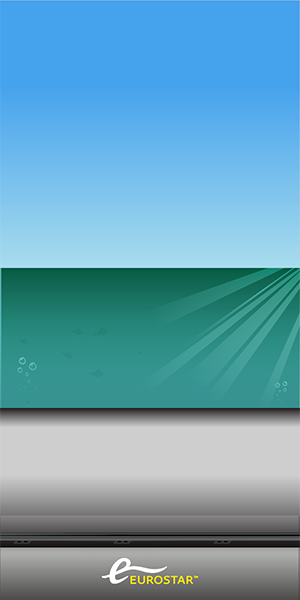
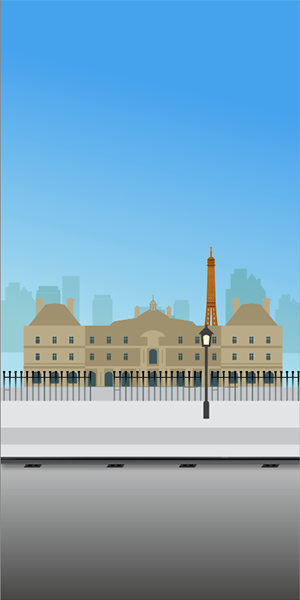
Eurostar guard added

diff --git a/Eurostar/public/Guard/300x600/js/banner.animation.js b/Eurostar/public/Guard/300x600/js/banner.animation.js
@@ -11,7 +11,7 @@ Banner.prototype.start = function () {
   this.bannerHeight = this.banner.offsetHeight;
 
   // Image array for preloading
-  this.images = ['images/logo.png', 'images/blue_bkg.png', 'images/train.png', 'images/scene1_bkg.png', 'images/scene1_clouds.png', 'images/scene1_hut.png', 'images/scene1_man.png', 'images/scene1_wheel.png', 'images/copy1.png', 'images/scene2_clouds.png', 'images/scene2_bkg.png', 'images/scene2_plane.png', 'images/scene2_boat.png', 'images/scene2_fish.png', 'images/copy2.png', 'images/scene4_bkg.png', 'images/scene4_line1.png', 'images/scene4_line2.png', 'images/copy4.png', 'images/scene5_price.png', 'images/cta.png', 'images/copy5.png'];
+  this.images = ['images/logo.png', 'images/blue_bkg.png', 'images/train.png', 'images/eurostar.png', 'images/scene1_bkg.png', 'images/scene1_clouds.png', 'images/scene1_hut.png', 'images/scene1_man.png', 'images/copy1.png', 'images/scene2_man.png', 'images/scene2_bkg.png', 'images/scene2_clothes.png', 'images/copy2.png', 'images/copy3.png', 'images/scene4_bkg.png', 'images/scene4_line1.png', 'images/scene4_line2.png', 'images/copy4.png', 'images/scene5_price.png', 'images/cta.png', 'images/copy5.png'];
 
   var _this = this;
   this.preloadImages(this.images, function () {
@@ -39,12 +39,20 @@ Banner.prototype.createElements = function () {
     backgroundImage: 'images/train.png',
     parent: this.banner
   });
+  this.eurostar = this.smartObject({
+    backgroundImage: 'images/eurostar.png',
+    parent: this.banner
+  });
   this.scene1_bkg = this.smartObject({
     backgroundImage: 'images/scene1_bkg.png',
     parent: this.banner
   });
   this.copy1 = this.smartObject({
     backgroundImage: 'images/copy1.png',
+    parent: this.banner
+  });
+  this.copy3 = this.smartObject({
+    backgroundImage: 'images/copy3.png',
     parent: this.banner
   });
   this.scene1_clouds = this.smartObject({
@@ -59,20 +67,16 @@ Banner.prototype.createElements = function () {
     backgroundImage: 'images/scene1_man.png',
     parent: this.banner
   });
-  this.scene1_wheel = this.smartObject({
-    backgroundImage: 'images/scene1_wheel.png',
-    parent: this.banner
-  });
   this.scene2_bkg = this.smartObject({
     backgroundImage: 'images/scene2_bkg.png',
     parent: this.banner
   });
-  this.scene2_clouds = this.smartObject({
-    backgroundImage: 'images/scene2_clouds.png',
+  this.scene2_man = this.smartObject({
+    backgroundImage: 'images/scene2_man.png',
     parent: this.banner
   });
-  this.scene2_plane = this.smartObject({
-    backgroundImage: 'images/scene2_plane.png',
+  this.scene2_clothes = this.smartObject({
+    backgroundImage: 'images/scene2_clothes.png',
     parent: this.banner
   });
   this.scene2_boat = this.smartObject({
@@ -124,23 +128,22 @@ Banner.prototype.setup = function () {
   this.logo.center();
   this.logo.set({ zIndex: 15 });
   this.blue_bkg.set({ left: -298, top: 0, zIndex: 14 });
-  this.train.set({ top: 400, left: -14000, zIndex: 14 });
+  this.train.set({ top: 335, left: -14000, zIndex: 14 });
+  this.eurostar.set({ top: 550, left: 95, zIndex: 13 });
 
   //SCENE 1 ZOOMED IN LONDON 
-  this.scene1_bkg.set({ scale: 1.4, zIndex: 12 });
-  this.scene1_clouds.set({ scale: 1.4, top: 200, left: 10, zIndex: 13 });
-  this.scene1_hut.set({ scale: 1.4, top: 320, left: 100, zIndex: 13 });
-  this.scene1_man.set({ scale: 1.4, top: 370, left: 120, zIndex: 13 });
-  this.scene1_wheel.set({ scale: 1.4, top: 150, left: 150, zIndex: 13 });
-  this.copy1.set({ autoAlpha: 0, top: 15, left: 70, zIndex: 13 });
+  this.scene1_bkg.set({ scale: 1.4, top: -50, left: 40, zIndex: 12 });
+  this.scene1_clouds.set({ scale: 1.4, top: 20, left: 30, zIndex: 13 });
+  this.scene1_hut.set({ scale: 1.4, top: 255, left: 110, zIndex: 12 });
+  this.scene1_man.set({ scale: 1.4, top: 305, left: 130, zIndex: 13 });
+  this.copy1.set({ autoAlpha: 0, top: 25, left: 60, zIndex: 13 });
+  this.copy2.set({ autoAlpha: 0, top: 60, left: 115, zIndex: 13 });
+  this.copy3.set({ autoAlpha: 0, top: 95, left: 35, zIndex: 13 });
 
-  //SCENE 2 OCEAN
-  this.scene2_clouds.set({ left: 0, zIndex: 11 });
+  //SCENE 2 PARIS
   this.scene2_bkg.set({ zIndex: 10 });
-  this.scene2_plane.set({ left: -200, zIndex: 11 });
-  this.scene2_boat.set({ left: 120, top: 245, zIndex: 11 });
-  this.scene2_fish.set({ left: 10, top: 300, zIndex: 11 });
-  this.copy2.set({ autoAlpha: 0, top: 300, left: 70, zIndex: 11 });
+  this.scene2_man.set({ top: 310, left: 90, zIndex: 11 });
+  this.scene2_clothes.set({ autoAlpha: 0, top: 355, left: 90, zIndex: 12 });
 
   //SCENE 4 LONDON TO PARIS
 
@@ -172,18 +175,21 @@ Banner.prototype.animate = function () {
     _this.timeline.gotoAndPlay('start');
   }
 
-  this.timeline = new TimelineMax({ repeat: 2 }).addLabel('start', 0).add([TweenMax.to(this.logo, 1, { left: 700, delay: 1 }), TweenMax.to(this.blue_bkg, 2, { left: 700, delay: 1 }), TweenMax.to(this.train, 9, { left: 10, delay: 4, ease: Power2.easeOut, y: 0 }),
+  this.timeline = new TimelineMax({ repeat: 2 }).addLabel('start', 0).add([TweenMax.to(this.logo, 1, { left: 700, delay: 1 }), TweenMax.to(this.blue_bkg, 2, { left: 700, delay: 1 }),
 
   //SCENE 1 ZOOMED IN LONDON
-  TweenMax.to(this.scene1_bkg, 4, { scale: 1, delay: 2 }), TweenMax.to(this.scene1_clouds, 8, { scale: 1, delay: 2 }), TweenMax.to(this.scene1_hut, 4, { scale: 1, delay: 2 }), TweenMax.to(this.scene1_man, 4, { scale: 1, delay: 2 }), TweenMax.to(this.scene1_wheel, 4, { scale: 1, delay: 2 }), TweenMax.to(this.scene1_clouds, 8, { left: -50, delay: 1 }), TweenMax.to(this.copy1, 1, { autoAlpha: 1, delay: 1 }), TweenMax.to(this.copy1, 1, { autoAlpha: 0, delay: 4 }), TweenMax.to(this.scene1_bkg, 1, { autoAlpha: 0, delay: 4 }), TweenMax.to(this.scene1_clouds, 1, { autoAlpha: 0, delay: 4 }),
+  TweenMax.to(this.scene1_bkg, 2, { scale: 1, y: 50, x: -40, delay: 1.5 }), TweenMax.to(this.scene1_clouds, 2, { scale: 1, y: 100, x: -30, delay: 1.5 }), TweenMax.to(this.scene1_hut, 2, { scale: 1, y: 30, x: -30, delay: 1.5 }), TweenMax.to(this.scene1_man, 2, { scale: 1, y: 25, x: -30, delay: 1.5 }),
 
-  //SCENE 2 OCEAN
-  TweenMax.to(this.scene2_clouds, 8, { left: -50, delay: 4.5 }), TweenMax.to(this.scene2_plane, 4, { x: 500, y: -100, top: 0, delay: 5 }), TweenMax.to(this.scene2_boat, 7, { x: 50, delay: 4.5 }), TweenMax.to(this.scene2_fish, 5, { x: 50, delay: 4.5 }), TweenMax.to(this.copy2, 1, { autoAlpha: 1, delay: 5 }), TweenMax.to(this.copy2, 1, { autoAlpha: 0, delay: 7 }), TweenMax.to(this.scene2_bkg, 1, { autoAlpha: 0, delay: 7 }), TweenMax.to(this.scene2_boat, 1, { autoAlpha: 0, delay: 7 }), TweenMax.to(this.scene2_fish, 1, { autoAlpha: 0, delay: 7 }), TweenMax.to(this.scene2_clouds, 1, { autoAlpha: 0, delay: 7 }),
+  //SCENE 2 ZOOMED OUT LONDON
+  TweenMax.to(this.train, 7, { left: 330, delay: 3 }), TweenMax.to(this.scene1_clouds, 11, { x: -200, delay: 3 }), TweenMax.to(this.copy1, 1, { autoAlpha: 1, delay: 3 }), TweenMax.to(this.copy2, 1, { autoAlpha: 1, delay: 5 }), TweenMax.to(this.copy3, 1, { autoAlpha: 1, delay: 7 }), TweenMax.to(this.scene1_bkg, 1, { autoAlpha: 0, delay: 7 }), TweenMax.to(this.scene1_clouds, 1, { autoAlpha: 0, delay: 7 }), TweenMax.to(this.scene1_man, 0.1, { autoAlpha: 0, delay: 8.3 }),
+
+  //SCENE 3 PARIS
+  TweenMax.to(this.scene1_hut, 4, { y: -20, x: 300, rotation: 45, transformOrigin: "left 50%", delay: 8.3 }), TweenMax.to(this.scene2_clothes, 0.1, { autoAlpha: 1, delay: 8.5 }), TweenMax.to(this.scene2_clothes, 4, { y: -10, x: 250, delay: 8.7 }), TweenMax.to(this.scene2_bkg, 1, { autoAlpha: 0, delay: 12 }), TweenMax.to(this.scene2_man, 1, { autoAlpha: 0, delay: 12 }), TweenMax.to(this.copy1, 1, { autoAlpha: 0, delay: 12 }), TweenMax.to(this.copy2, 1, { autoAlpha: 0, delay: 12 }), TweenMax.to(this.copy3, 1, { autoAlpha: 0, delay: 12 }), TweenMax.to(this.scene2_clothes, 1, { autoAlpha: 0, delay: 12 }),
 
   //SCENE 4 LONDON TO PARIS
-  TweenMax.to(this.scene4_line1, 1, { y: -35, delay: 10.5 }), TweenMax.to(this.scene4_line2, 1, { y: 35, delay: 10.5 }), TweenMax.to(this.copy4, 1, { autoAlpha: 1, scale: 1, delay: 11.5 }), TweenMax.to(this.scene4_line1, 1, { autoAlpha: 0, delay: 14 }), TweenMax.to(this.scene4_line2, 1, { autoAlpha: 0, delay: 14 }), TweenMax.to(this.copy4, 1, { autoAlpha: 0, delay: 14 }),
+  TweenMax.to(this.scene4_line1, 1, { y: -35, delay: 12.5 }), TweenMax.to(this.scene4_line2, 1, { y: 35, delay: 12.5 }), TweenMax.to(this.copy4, 1, { autoAlpha: 1, scale: 1, delay: 13.5 }), TweenMax.to(this.scene4_line1, 1, { autoAlpha: 0, delay: 16 }), TweenMax.to(this.scene4_line2, 1, { autoAlpha: 0, delay: 16 }), TweenMax.to(this.copy4, 1, { autoAlpha: 0, delay: 16 }),
 
   //SCENE 5 CTA & PRICE
-  TweenMax.to(this.scene5_price, 1, { autoAlpha: 1, delay: 14.5 }), TweenMax.to(this.copy5, 1, { autoAlpha: 1, delay: 14.5 }), TweenMax.to(this.cta, 1, { autoAlpha: 1, scale: 1, delay: 14.5 }), TweenMax.to(this.cta, 0.5, { scale: 1.05, repeat: 5, yoyo: true, delay: 15 })]);
+  TweenMax.to(this.scene5_price, 1, { autoAlpha: 1, delay: 16.5 }), TweenMax.to(this.copy5, 1, { autoAlpha: 1, delay: 16.5 }), TweenMax.to(this.cta, 1, { autoAlpha: 1, scale: 1, delay: 16.5 }), TweenMax.to(this.cta, 0.5, { scale: 1.05, repeat: 5, yoyo: true, delay: 17 })]);
   console.log(this.timeline.totalDuration());
 };

diff --git a/Eurostar/public/Ocean/300x600/js/banner.animation.js b/Eurostar/public/Ocean/300x600/js/banner.animation.js
@@ -190,7 +190,7 @@ Banner.prototype.animate = function () {
     _this.timeline.gotoAndPlay('start');
   }
 
-  this.timeline = new TimelineMax({ repeat: 2 }).addLabel('start', 0).add([TweenMax.to(this.logo, 1, { left: 700, delay: 1 }), TweenMax.to(this.blue_bkg, 2, { left: 700, delay: 1 }), TweenMax.to(this.train, 9, { left: 10, delay: 1.5, ease: Power2.easeOut, y: 0 }),
+  this.timeline = new TimelineMax({ repeat: 1 }).addLabel('start', 0).add([TweenMax.to(this.logo, 1, { left: 700, delay: 1 }), TweenMax.to(this.blue_bkg, 2, { left: 700, delay: 1 }), TweenMax.to(this.train, 9, { left: 10, delay: 1.5, ease: Power2.easeOut, y: 0 }),
 
   //SCENE 1 LONDON 
   TweenMax.to(this.scene1_clouds, 8, { left: -50, delay: 1 }), TweenMax.to(this.scene1_bus, 6, { left: -150, delay: 1 }), TweenMax.to(this.copy1, 1, { autoAlpha: 1, delay: 1 }), TweenMax.to(this.copy1, 1, { autoAlpha: 0, delay: 4 }), TweenMax.to(this.scene1_bkg, 1, { autoAlpha: 0, delay: 4 }), TweenMax.to(this.scene1_clouds, 1, { autoAlpha: 0, delay: 4 }), TweenMax.to(this.scene1_bus, 1, { autoAlpha: 0, delay: 4 }),

diff --git a/Eurostar/public/index.html b/Eurostar/public/index.html
@@ -52,7 +52,7 @@
       </div>
     </div>
     <div class="iframe">
-      <iframe src="Ocean/300x600/"></iframe>
+      <iframe src="Guard/300x600/"></iframe>
       <div class="loading"></div>
     </div>
     <div class="desktop">
